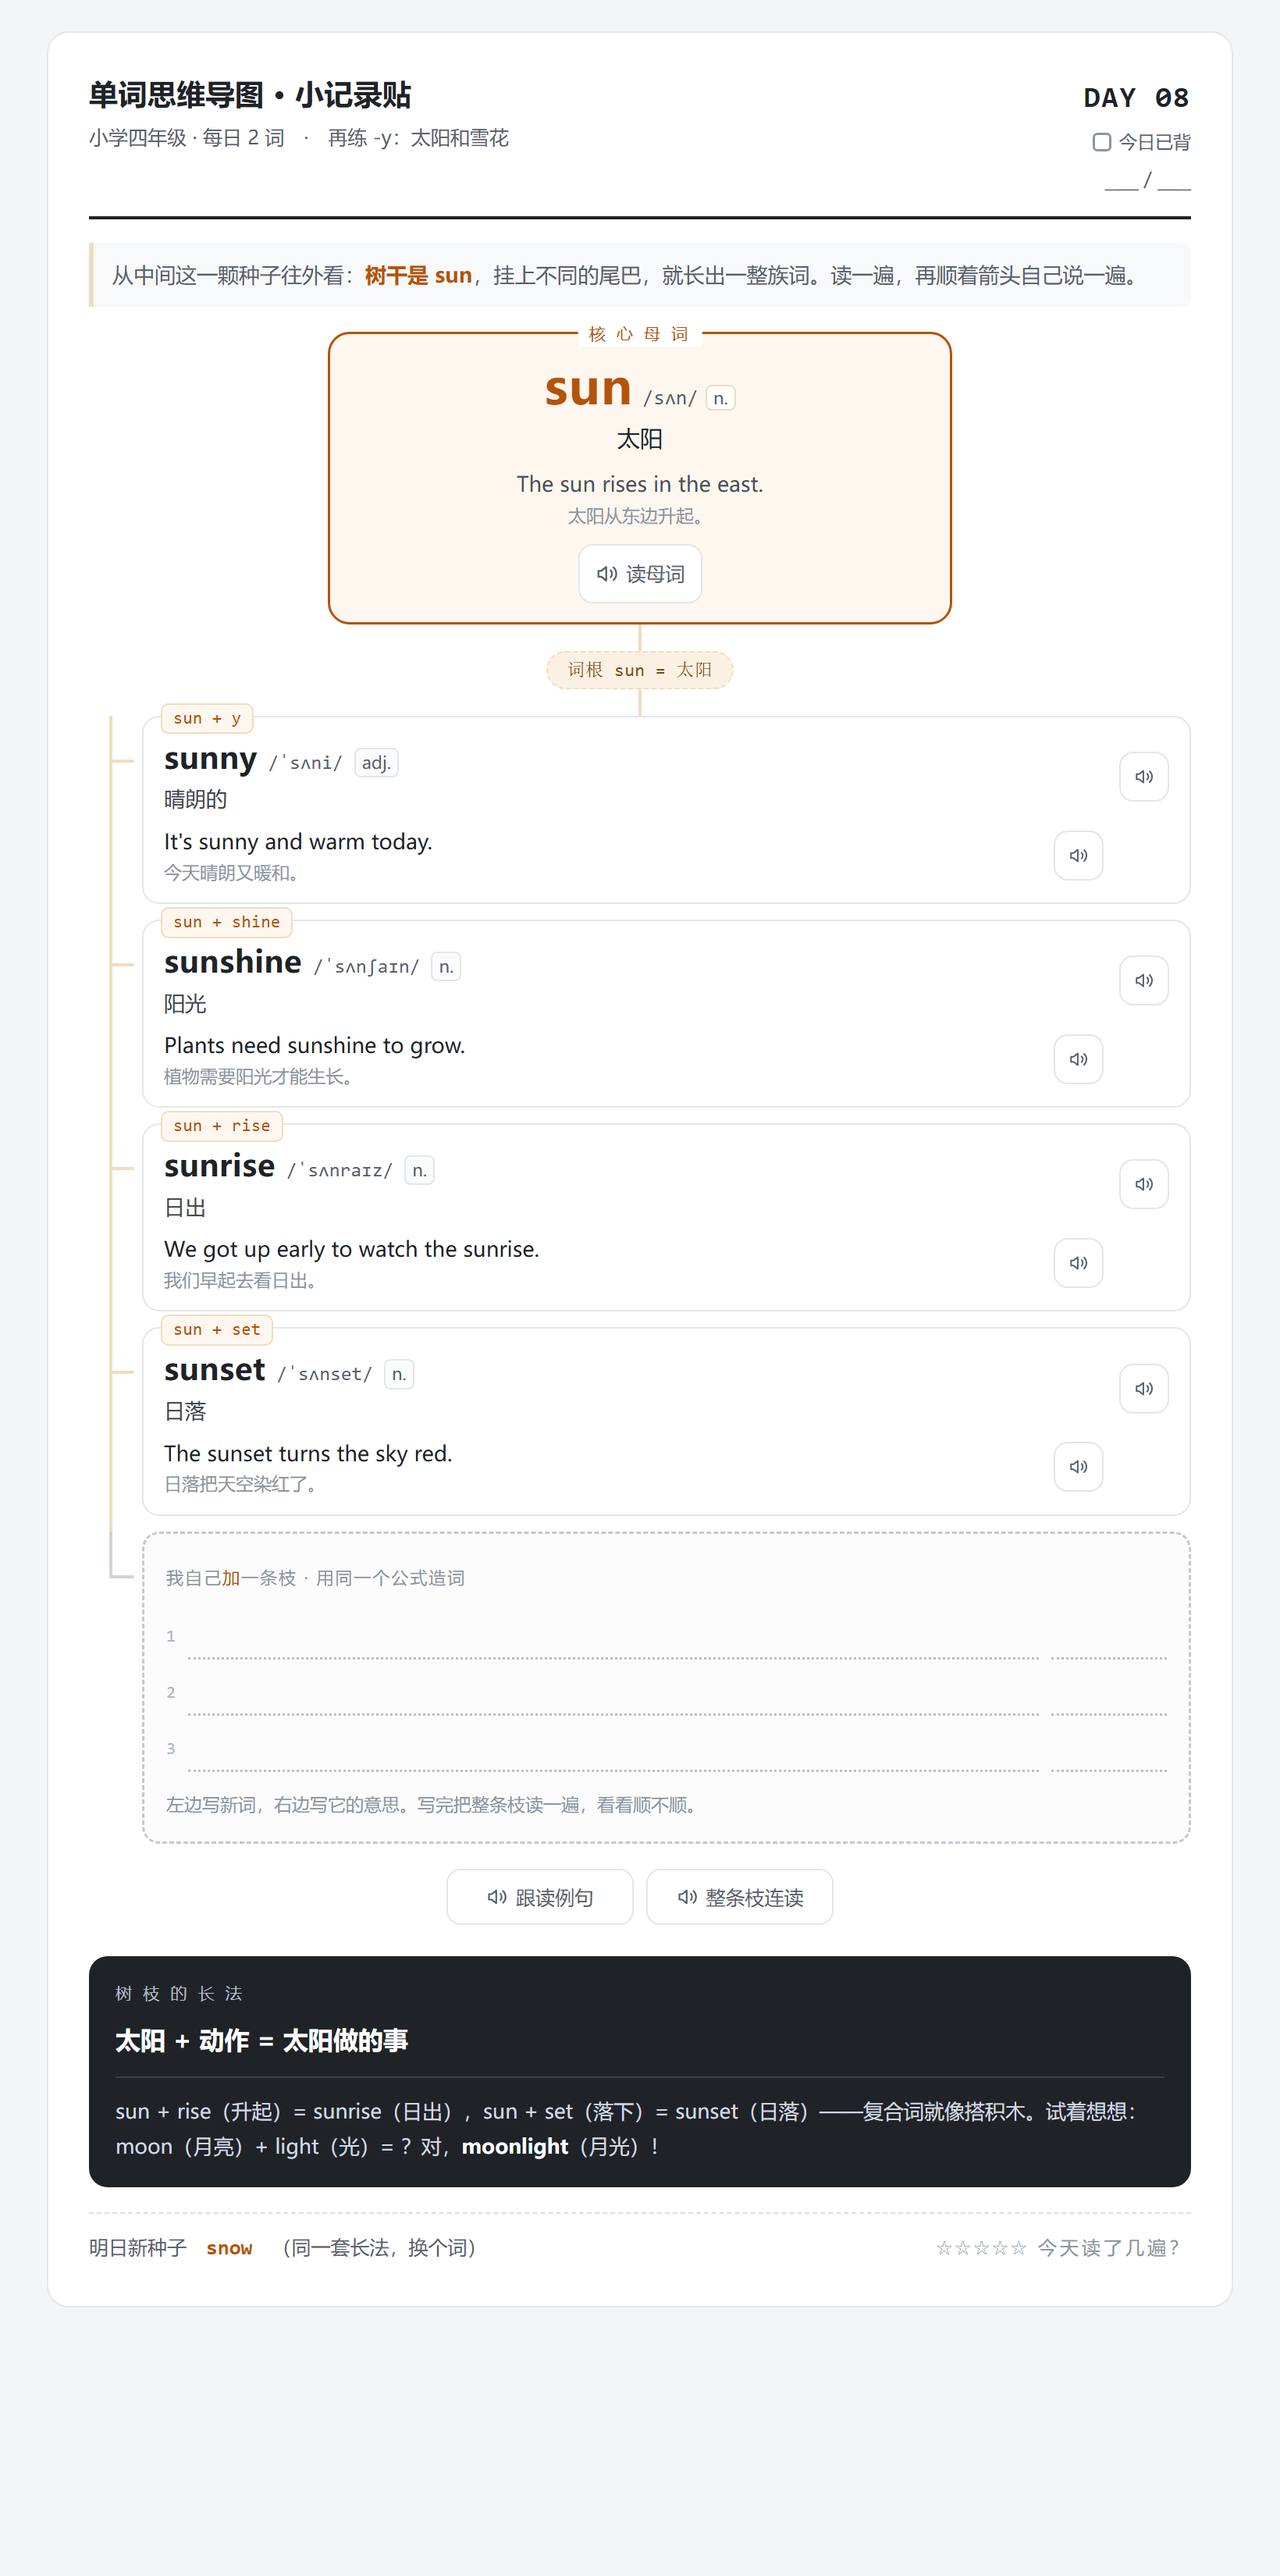
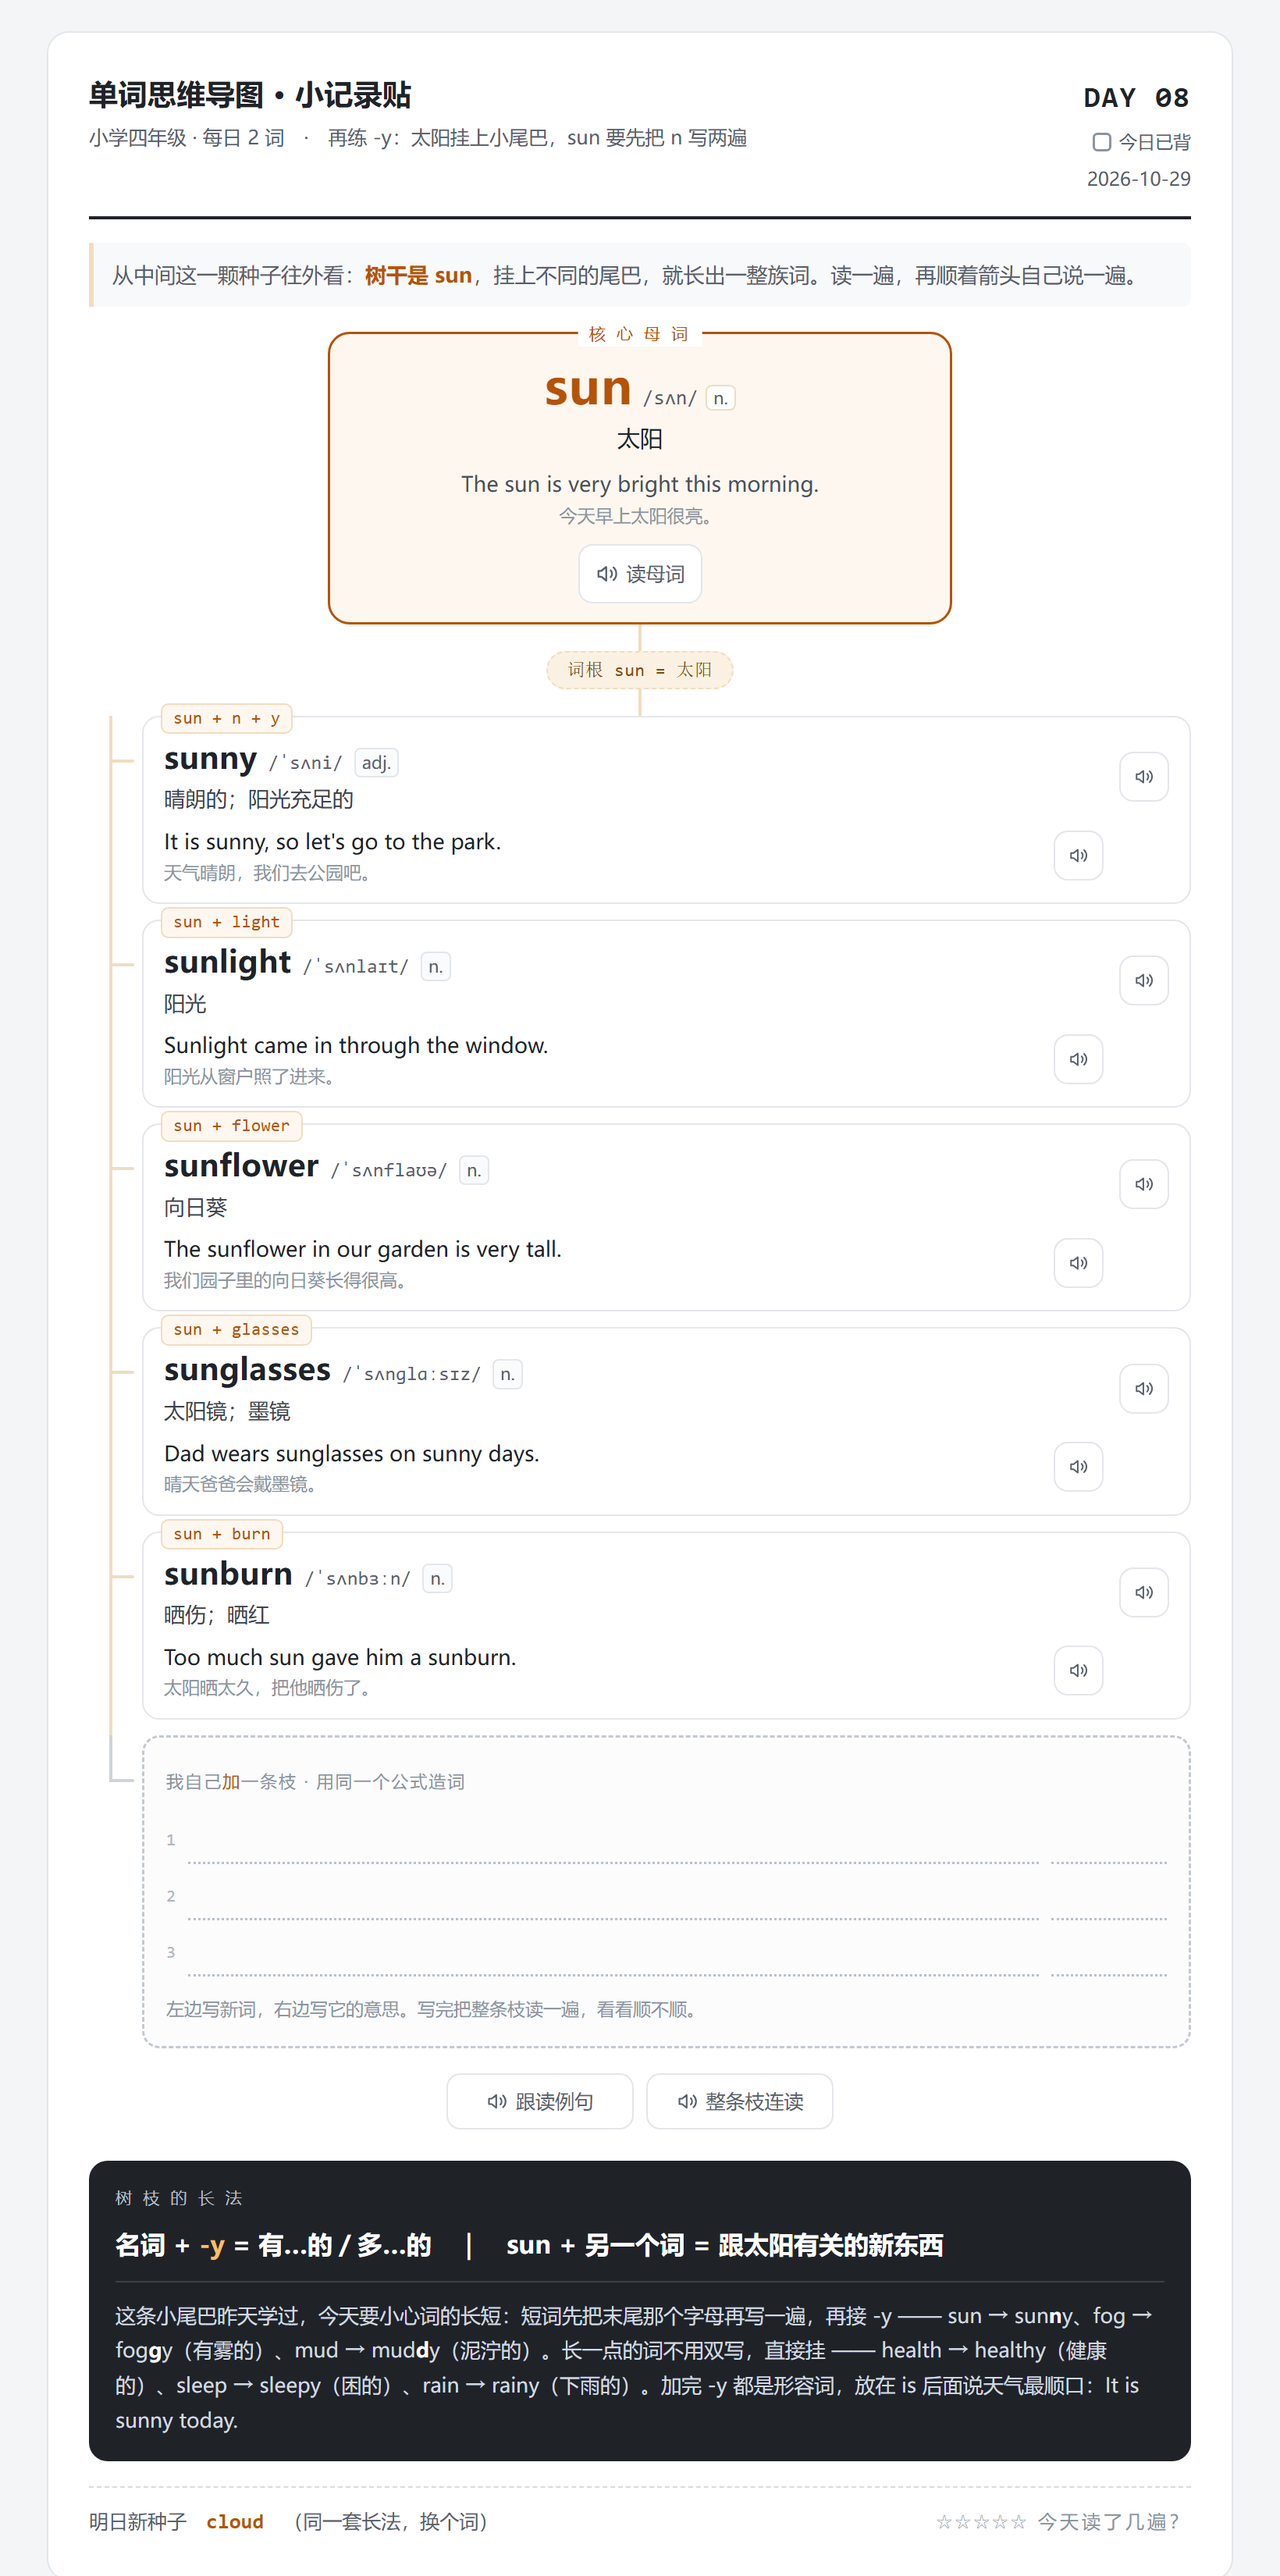
DAY08 以实际推送为准：snow 改为 cloud；台账同步至 day08

diff --git a/site/day08b-cloud.html b/site/day08b-cloud.html
@@ -3,7 +3,7 @@
 <head>
 <meta charset="UTF-8">
 <meta name="viewport" content="width=device-width, initial-scale=1.0">
-<title>DAY08 snow 词族记录贴</title>
+<title>DAY08 cloud 词族记录贴</title>
 <style>
   :root{
     --ink:#1f2328; --ink-2:#57606a; --ink-3:#8b949e;
@@ -197,63 +197,63 @@
    ============================================================ */
 const CARD = {
   "day": 8,
-  "theme": "再练 -y：太阳和雪花（同天第二张）",
+  "theme": "再练 -y：cloud 挂 -y 是形容词，换成 -less 就是反义",
   "stage": "小学四年级 · 每日 2 词",
-  "date": "",
+  "date": "2026-10-29",
   "base": {
-    "word": "snow",
-    "phonetic": "/snəʊ/",
-    "pos": "n. / v.",
-    "meaning": "雪；下雪",
-    "example": "The snow is falling softly.",
-    "exampleZh": "雪轻轻地下着。"
+    "word": "cloud",
+    "phonetic": "/klaʊd/",
+    "pos": "n.",
+    "meaning": "云",
+    "example": "Dark clouds are coming over the hill.",
+    "exampleZh": "乌云正从山那边压过来。"
   },
   "root": {
-    "part": "snow",
-    "meaning": "雪",
-    "logic": "snow 是树干，意思是“雪”。挂 -y 变“下雪的”；雪滚成球是 snowball，堆成人是 snowman，气象员说的“降雪量”就是 snowfall。和 rain 词族长得几乎一样，直接照搬。"
+    "part": "cloud",
+    "meaning": "云",
+    "logic": "cloud 是这棵树的树干，意思是“云”。挂上小尾巴 -y 就是“多云的、阴的”；换成另一条尾巴 -less，就成了“没有云的、晴朗的”——一有一无，是前面学过的同一套玩法。cloud 还能和别的树干手拉手：cloud + burst 是骤雨。树干不变，只换尾巴。"
   },
   "family": [
     {
-      "word": "snowy",
-      "formula": "snow + y",
-      "phonetic": "/ˈsnəʊi/",
+      "word": "cloudy",
+      "formula": "cloud + y",
+      "phonetic": "/ˈklaʊdi/",
       "pos": "adj.",
-      "meaning": "下雪的",
-      "example": "It's snowy in the north now.",
-      "exampleZh": "北方现在在下雪。"
+      "meaning": "多云的；阴的",
+      "example": "It is cloudy, so we may get rain.",
+      "exampleZh": "天阴了，可能会下雨。"
     },
     {
-      "word": "snowman",
-      "formula": "snow + man",
-      "phonetic": "/ˈsnəʊmæn/",
-      "pos": "n.",
-      "meaning": "雪人",
-      "example": "Let's make a snowman!",
-      "exampleZh": "我们来堆雪人吧！"
+      "word": "cloudless",
+      "formula": "cloud + less",
+      "phonetic": "/ˈklaʊdləs/",
+      "pos": "adj.",
+      "meaning": "无云的；晴朗的",
+      "example": "The sky is cloudless and very blue.",
+      "exampleZh": "天空没有一丝云，蓝得很干净。"
     },
     {
-      "word": "snowball",
-      "formula": "snow + ball",
-      "phonetic": "/ˈsnəʊbɔːl/",
+      "word": "cloudburst",
+      "formula": "cloud + burst",
+      "phonetic": "/ˈklaʊdbɜːst/",
       "pos": "n.",
-      "meaning": "雪球",
-      "example": "We had a snowball fight after school.",
-      "exampleZh": "放学后我们打了一场雪仗。"
+      "meaning": "骤雨；暴雨",
+      "example": "A cloudburst filled the street with water.",
+      "exampleZh": "一场骤雨把街道灌满了水。"
     },
     {
-      "word": "snowfall",
-      "formula": "snow + fall",
-      "phonetic": "/ˈsnəʊfɔːl/",
+      "word": "cloudiness",
+      "formula": "cloud + i + ness",
+      "phonetic": "/ˈklaʊdinəs/",
       "pos": "n.",
-      "meaning": "降雪（量）",
-      "example": "Heavy snowfall closed the school.",
-      "exampleZh": "大雪让学校停课了。"
+      "meaning": "多云；阴沉",
+      "example": "The cloudiness made the room quite dark.",
+      "exampleZh": "天阴沉沉的，屋里变得很暗。"
     }
   ],
   "rule": {
-    "formula": "天气词 + -y = ……的天气 ｜ 两个词拼一起 = 新词",
-    "tip": "一周天气词集合：rainy、windy、sunny、snowy、cloudy（多云）。再练复合词：snow + man = 雪人，那 snow + shoe（鞋）= ？<b>snowshoe<\/b>（雪鞋）！你会搭积木，就会猜单词。"
+    "formula": "名词 + <em>-y<\/em> = 多…的　｜　名词 + <em>-less<\/em> = 没有…的　｜　-y 结尾的词 + <em>-ness<\/em> = 这种样子",
+    "tip": "一有一无再套一遍：cloud → cloudy / cloudless、rain → rainy / rainless、sleep → sleepy / sleepless。今天多一个新花样：-y 结尾的词想说“这种样子”，要把 y 摘掉换成 i 再加 -ness —— cloudy → cloud<b>i<\/b>ness、happy → happ<b>i<\/b>ness（快乐）、easy → eas<b>i<\/b>ly（简单地）。小坑：只有 y 前面是辅音字母时才换 i。"
   },
   "nextWord": "work",
   "speakRate": 0.85

diff --git a/site/day08-sun.html b/site/day08-sun.html
@@ -197,65 +197,74 @@
    ============================================================ */
 const CARD = {
   "day": 8,
-  "theme": "再练 -y：太阳和雪花",
+  "theme": "再练 -y：太阳挂上小尾巴，sun 要先把 n 写两遍",
   "stage": "小学四年级 · 每日 2 词",
-  "date": "",
+  "date": "2026-10-29",
   "base": {
     "word": "sun",
     "phonetic": "/sʌn/",
     "pos": "n.",
     "meaning": "太阳",
-    "example": "The sun rises in the east.",
-    "exampleZh": "太阳从东边升起。"
+    "example": "The sun is very bright this morning.",
+    "exampleZh": "今天早上太阳很亮。"
   },
   "root": {
     "part": "sun",
     "meaning": "太阳",
-    "logic": "sun 是树干，意思是“太阳”。挂 -y 变“晴朗的”；太阳“升起来”是 rise，两个词拼一起就是“日出”；太阳落下去是 set，拼起来就是“日落”。和 rain 一样，一棵树干挂满新枝。"
+    "logic": "sun 是这棵树的树干，意思是“太阳”。树干后面挂一条小尾巴 -y，就变成“阳光充足的、晴朗的”。这个树干还能和别的树干手拉手长出新东西：sun + light 是阳光，sun + flower 是向日葵，sun + glasses 是太阳镜，sun + burn 是晒伤。树干一直是 sun，只换尾巴和同伴，意思就跟着变。"
   },
   "family": [
     {
       "word": "sunny",
-      "formula": "sun + y",
+      "formula": "sun + n + y",
       "phonetic": "/ˈsʌni/",
       "pos": "adj.",
-      "meaning": "晴朗的",
-      "example": "It's sunny and warm today.",
-      "exampleZh": "今天晴朗又暖和。"
+      "meaning": "晴朗的；阳光充足的",
+      "example": "It is sunny, so let's go to the park.",
+      "exampleZh": "天气晴朗，我们去公园吧。"
     },
     {
-      "word": "sunshine",
-      "formula": "sun + shine",
-      "phonetic": "/ˈsʌnʃaɪn/",
+      "word": "sunlight",
+      "formula": "sun + light",
+      "phonetic": "/ˈsʌnlaɪt/",
       "pos": "n.",
       "meaning": "阳光",
-      "example": "Plants need sunshine to grow.",
-      "exampleZh": "植物需要阳光才能生长。"
+      "example": "Sunlight came in through the window.",
+      "exampleZh": "阳光从窗户照了进来。"
     },
     {
-      "word": "sunrise",
-      "formula": "sun + rise",
-      "phonetic": "/ˈsʌnraɪz/",
+      "word": "sunflower",
+      "formula": "sun + flower",
+      "phonetic": "/ˈsʌnflaʊə/",
       "pos": "n.",
-      "meaning": "日出",
-      "example": "We got up early to watch the sunrise.",
-      "exampleZh": "我们早起去看日出。"
+      "meaning": "向日葵",
+      "example": "The sunflower in our garden is very tall.",
+      "exampleZh": "我们园子里的向日葵长得很高。"
     },
     {
-      "word": "sunset",
-      "formula": "sun + set",
-      "phonetic": "/ˈsʌnset/",
+      "word": "sunglasses",
+      "formula": "sun + glasses",
+      "phonetic": "/ˈsʌnɡlɑːsɪz/",
       "pos": "n.",
-      "meaning": "日落",
-      "example": "The sunset turns the sky red.",
-      "exampleZh": "日落把天空染红了。"
+      "meaning": "太阳镜；墨镜",
+      "example": "Dad wears sunglasses on sunny days.",
+      "exampleZh": "晴天爸爸会戴墨镜。"
+    },
+    {
+      "word": "sunburn",
+      "formula": "sun + burn",
+      "phonetic": "/ˈsʌnbɜːn/",
+      "pos": "n.",
+      "meaning": "晒伤；晒红",
+      "example": "Too much sun gave him a sunburn.",
+      "exampleZh": "太阳晒太久，把他晒伤了。"
     }
   ],
   "rule": {
-    "formula": "太阳 + 动作 = 太阳做的事",
-    "tip": "sun + rise（升起）= sunrise（日出），sun + set（落下）= sunset（日落）——复合词就像搭积木。试着想想：moon（月亮）+ light（光）= ？对，<b>moonlight<\/b>（月光）！"
+    "formula": "名词 + <em>-y<\/em> = 有…的／多…的　｜　sun + 另一个词 = 跟太阳有关的新东西",
+    "tip": "这条小尾巴昨天学过，今天要小心词的长短：短词先把末尾那个字母再写一遍，再接 -y —— sun → sun<b>n<\/b>y、fog → fog<b>g<\/b>y（有雾的）、mud → mud<b>d<\/b>y（泥泞的）。长一点的词不用双写，直接挂 —— health → healthy（健康的）、sleep → sleepy（困的）、rain → rainy（下雨的）。加完 -y 都是形容词，放在 is 后面说天气最顺口：It is sunny today."
   },
-  "nextWord": "snow",
+  "nextWord": "cloud",
   "speakRate": 0.85
 };
 
